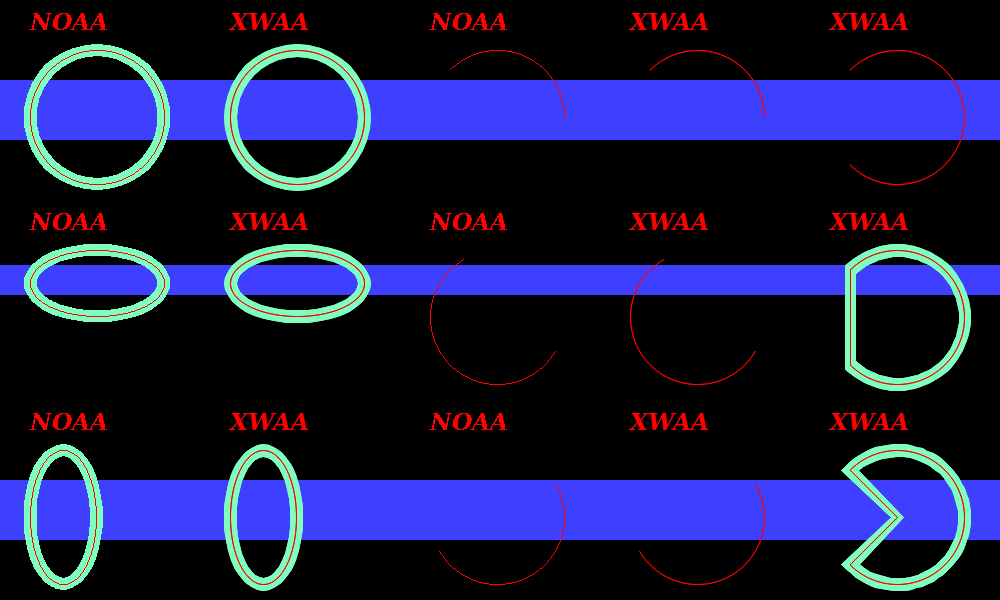
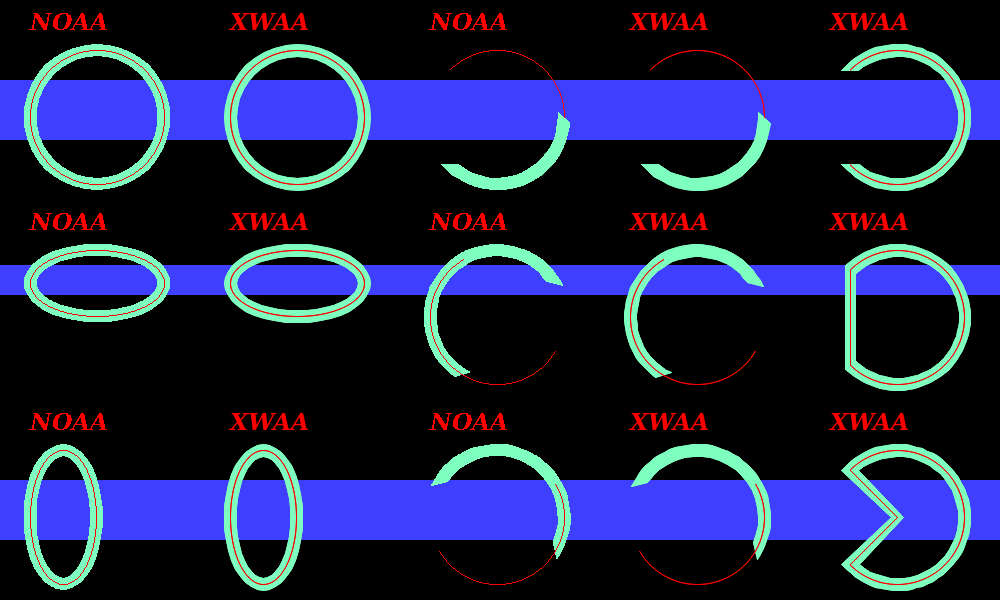
Working on thick ellipse & arc

diff --git a/src/Pt-Gfx/ImagePainter2.cpp b/src/Pt-Gfx/ImagePainter2.cpp
@@ -527,24 +527,51 @@ void ImagePainter2::drawArc( const PointF& topLeft, const SizeF& size, float deg
         return;
     }
 
+    // Ensure that the begin angle is within the acceptable range
+    while(degBegin < -360) degBegin += 360;
+    while(degBegin >  360) degBegin -= 360;
+
+    // Ensure that the end angle is within the acceptable range
+    while(degEnd < -360) degEnd += 360;
+    while(degEnd >  360) degEnd -= 360;
+
     // Calculate the coordinate shift
-    const float degMid = (degBegin + degEnd) / 2.0f * Gfx::Math::PiDiv180;
-    const float shiftX = Gfx::Math::fastCos(degMid);
-    const float shiftY = Gfx::Math::fastSin(degMid);
+    const size_t penSize    = _rasterizer->pen().size();
+    const size_t penSize2   = penSize / 2;
+    const float  degMid   = (degBegin + degEnd) / 2.0f * Gfx::Math::PiDiv180;
+    const float  shiftX   = Gfx::Math::fastCos(degMid);
+    const float  shiftY   = Gfx::Math::fastSin(degMid);
+    const float  shiftXps = shiftX * penSize2;
+    const float  shiftYps = shiftY * penSize2;
+
+    // Calculate the angle adjustment factor
+    const float aafa = size.width () / 2.0f;
+    const float aafb = size.height() / 2.0f;
+    const float aafc = Gfx::Math::PiMul2 * Gfx::Math::fastSqrt( (aafa * aafa + aafb * aafb) / 2.0f );
+    const float aafd = 360.0f * penSize2 / aafc;
+
+    // Calculate the adjusted angle
+    const float odegBegin = (degBegin < 0) ? (degBegin - aafd) : (degBegin + aafd);
+    const float odegEnd   = (degEnd   < 0) ? (degEnd   - aafd) : (degEnd   + aafd);
+    const float idegBegin = (degBegin < 0) ? (degBegin + aafd) : (degBegin - aafd);
+    const float idegEnd   = (degEnd   < 0) ? (degEnd   + aafd) : (degEnd   - aafd);
 
     // Solid
     if(_rasterizer->pen().style() == Pen::Solid) {
         // Calculate the ellipse's parameters
-        const size_t      penSize  = _rasterizer->pen().size();
-        const size_t      penSize2 = penSize / 2;
-        const Pt::int32_t radiusXo = ( size.width () + penSize ) / 2;
-        const Pt::int32_t radiusYo = ( size.height() + penSize ) / 2;
-        const Pt::int32_t radiusXi = ( size.width () - penSize ) / 2;
-        const Pt::int32_t radiusYi = ( size.height() - penSize ) / 2;
-        const Pt::int32_t centerX  = topLeft.x() + size.width () / 2;
-        const Pt::int32_t centerY  = topLeft.y() + size.height() / 2;
-        // Generate the polygon
+        const Pt::int32_t radiusXo   = ( size.width () + penSize ) / 2;
+        const Pt::int32_t radiusYo   = ( size.height() + penSize ) / 2;
+        const Pt::int32_t radiusXi   = ( size.width () - penSize ) / 2;
+        const Pt::int32_t radiusYi   = ( size.height() - penSize ) / 2;
+        const Pt::int32_t centerX    = topLeft.x() + size.width () / 2;
+        const Pt::int32_t centerY    = topLeft.y() + size.height() / 2;
+        const Pt::int32_t centerXsub = round(centerX - shiftXps);
+        const Pt::int32_t centerYsub = round(centerY - shiftYps);
+        const Pt::int32_t centerXadd = round(centerX + shiftXps);
+        const Pt::int32_t centerYadd = round(centerY + shiftYps);
+        // The arc's points
         std::vector<Point> points;
+        // Generate the polygon
         if(arcMode == ArcMode::Chord) {
             // Outer perimeter
             generateArcPoints(points, radiusXo, radiusYo, centerX, centerY, degBegin, degEnd);
@@ -553,25 +580,39 @@ void ImagePainter2::drawArc( const PointF& topLeft, const SizeF& size, float deg
             generateArcPoints(points, radiusXi, radiusYi, centerX + shiftX, centerY + shiftY, degBegin, degEnd);
         }
         else if(arcMode == ArcMode::Pie) {
-            // Calculate the angle adjustment factor
-            const float a = size.width () / 2.0f;
-            const float b = size.height() / 2.0f;
-            const float c = Gfx::Math::PiMul2 * Gfx::Math::fastSqrt( (a * a + b * b) / 2.0f );
-            const float d = 360.0f * penSize2 / c;
             // Outer perimeter
-            const float odegBegin = (degBegin < 0) ? (degBegin - d) : (degBegin + d);
-            const float odegEnd   = (degEnd   < 0) ? (degEnd   - d) : (degEnd   + d);
             generateArcPoints(points, radiusXo, radiusYo, centerX, centerY, odegBegin, odegEnd);
-            points.push_back(Point(round(centerX - shiftX * penSize2), round(centerY - shiftY * penSize2)));
+            points.push_back(Point(centerXsub, centerYsub));
             // Inner perimeter
-            const float idegBegin = (degBegin < 0) ? (degBegin + d) : (degBegin - d);
-            const float idegEnd   = (degEnd   < 0) ? (degEnd   + d) : (degEnd   - d);
             points.push_back(Painter::PolygonSeparatorPoint);
             generateArcPoints(points, radiusXi, radiusYi, centerX, centerY, idegBegin, idegEnd);
-            points.push_back(Point(round(centerX + shiftX * penSize2), round(centerY + shiftY * penSize2)));
+            points.push_back(Point(centerXadd, centerYadd));
         }
         else { // ArcMode::Open
-            // ### TODO ###
+            // The arc's temporary points
+           // std::vector<Point> middle;
+           // generateArcPoints(middle, radiusX, radiusY, centerX, centerY, degBegin, degEnd);
+
+            // Calculate the middle line's parameters
+           // float mwh, mdx, mdy, mnx, mny;
+           // calculateLineParams(mwh, mdx, mdy, mnx, mny, middle.front().x(), middle.front().y(), middle.back().x(), middle.back().y(), _rasterizer->pen().size());
+           // mnx *= 0.0f;
+           // mny *= 0.0f;
+
+            // The arc's temporary points
+            std::vector<Point> outer, inner;
+            // Generate the arc points
+            generateArcPoints(outer, radiusXo, radiusYo, centerX, centerY, odegBegin, odegEnd);
+            generateArcPoints(inner, radiusXi, radiusYi, centerX, centerY, idegBegin, idegEnd);
+
+#if 1
+            points.insert(points.end(), outer.rbegin(), outer.rend());
+            points.insert(points.end(), inner. begin(), inner. end());
+#else
+            points.insert(points.end(), inner.rbegin(), inner.rend());
+            points.insert(points.end(), outer. begin(), outer. end());
+#endif
+
         }
         // Rasterize the polygon
         _rasterizer->strokePolygon(points.data(), points.size());
